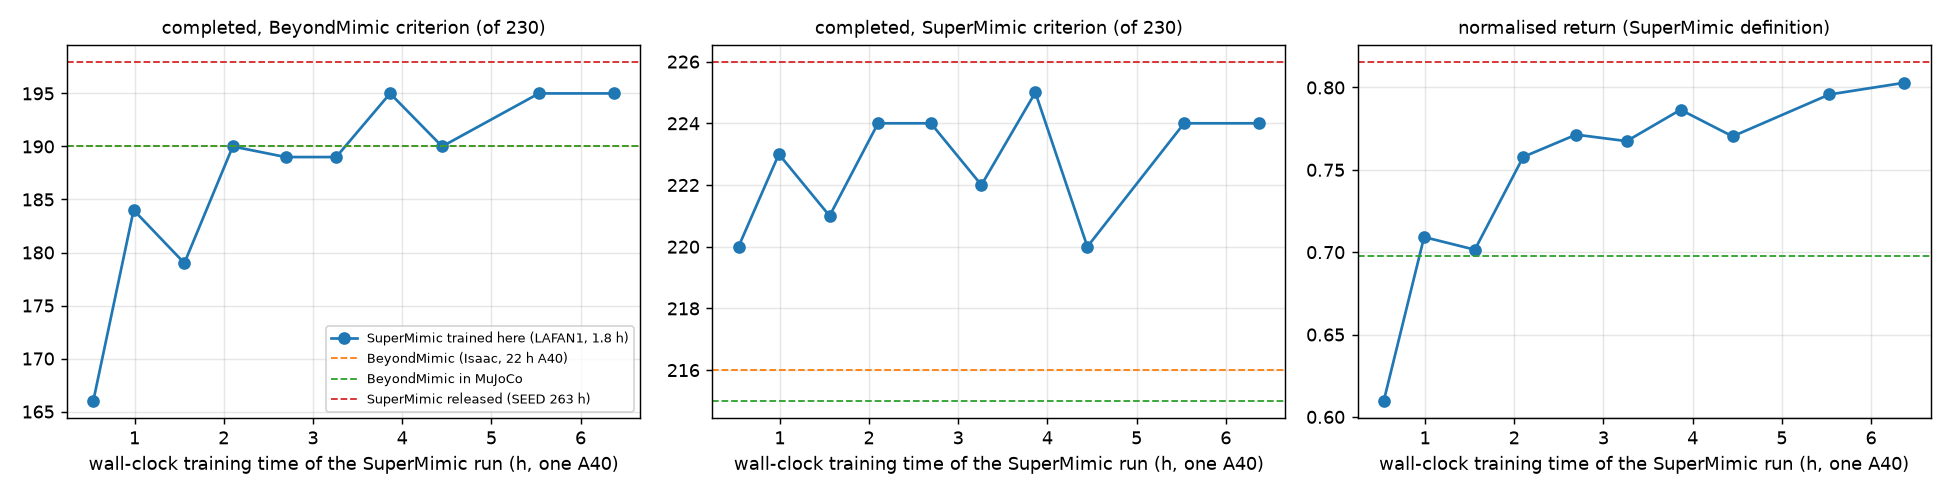
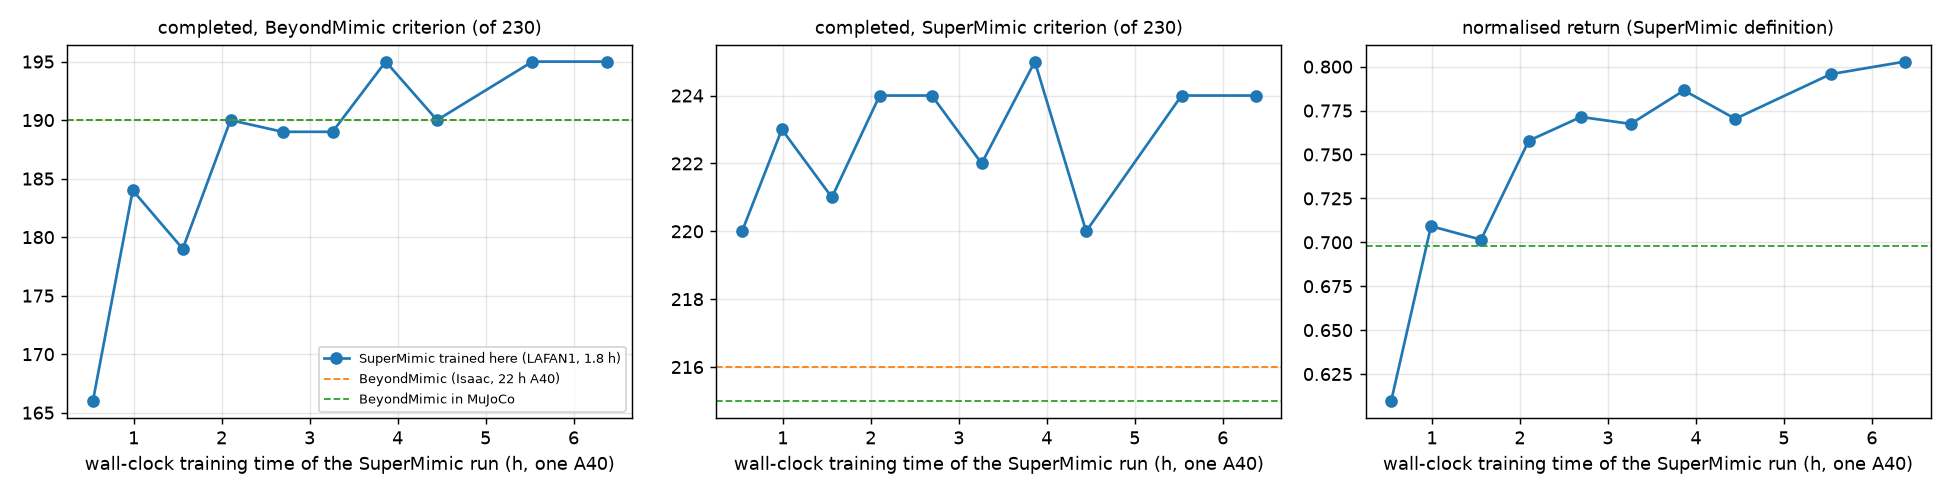
docs: compare BeyondMimic with single-robot SuperMimic; MorphMimic unified_v2 as a reference
The SuperMimic backend is MorphMimic's unofficial reimplementation run in
single-robot mode (no morphology input, FiLM, latent alignment or five-point
interface). MorphMimic's released unified_v2 policy is a cross-embodiment
model trained on three robots, so it leaves the README comparison and the
demo and is kept as a zero-shot reference in docs/supermimic.md, with its
numbers and a relabeled three-column video.

README: three-row table (errors on the 183 clips all three complete),
learning curve without the unified_v2 line, two-column comparison and the
squat video with the SuperMimic policy trained here, and a note that the
BeyondMimic policy cannot see its heading error while the SuperMimic goal
carries the reference orientation relative to the robot.

diff --git a/README.md b/README.md
@@ -1,6 +1,6 @@
 # Humanoid-Motion
 
-An end-to-end pipeline that turns human motion, from motion capture or a single video, into physically tracked motion on the Unitree G1 humanoid: retarget it to the robot with GMR and audit every clip, track it with one of two physics backends (a multi-motion PPO policy in the BeyondMimic environment in Isaac Lab, or SuperMimic's world-model policy through the open MorphMimic implementation in MuJoCo Warp), then score both with one evaluation protocol and replay the recorded physics.
+An end-to-end pipeline that turns human motion, from motion capture or a single video, into physically tracked motion on the Unitree G1 humanoid: retarget it to the robot with GMR and audit every clip, track it with one of two physics backends (a multi-motion PPO policy in the BeyondMimic environment in Isaac Lab, or a SuperMimic world-model policy trained with MorphMimic's unofficial reimplementation in MuJoCo Warp), then score both with one evaluation protocol and replay the recorded physics.
 
 ![One policy tracking six held-out LAFAN1 test clips on the Unitree G1: dance, run, fight and sports, fight, ground moves, fall and get up.](docs/media/teaser.webp)
 
@@ -8,34 +8,35 @@ An end-to-end pipeline that turns human motion, from motion capture or a single 
 
 ## Two tracking backends, one scorer (v0.3)
 
+The second backend follows SuperMimic (Liao et al., CoRL 2026), which learns a differentiable world model and trains the policy through it instead of with PPO. Its authors have not released code; this repository trains it with the open, unofficial reimplementation in MorphMimic's codebase, in single-robot mode, where MorphMimic's cross-embodiment additions are switched off (see [docs/supermimic.md](docs/supermimic.md)).
+
 Both backends are scored by the same offline function on the same 230 held-out LAFAN1 test clips, from recorded states: one attempt per clip from its first frame, no resets, no assistance. "BeyondMimic criterion" fails an attempt at the first frame where the torso height or any ankle or wrist height is more than 25 cm off the reference, or the torso tilt passes BeyondMimic's threshold; the SuperMimic paper's criterion uses the torso terms only. The scorer reproduces the online Isaac evaluator exactly (190 / 230, the same first failure frame on every clip).
 
-| Policy | Training data and compute | Simulator | Completed, BeyondMimic criterion | Completed, SuperMimic criterion |
+| Policy | Training | Simulator | Completed, BeyondMimic criterion | Completed, SuperMimic criterion |
 |---|---|---|---:|---:|
-| BeyondMimic (this repository, v0.1 release) | LAFAN1 train split (1.8 h of motion); 22 h on one A40 | Isaac Lab (its training simulator) | 190 | 216 |
+| BeyondMimic (this repository, v0.1 release) | LAFAN1 train split (1,062 clips, 1.8 h of motion); 22 h on one A40 | Isaac Lab (its training simulator) | 190 | 216 |
 | BeyondMimic, same policy | as above | MuJoCo (sim-to-sim) | 190 | 215 |
-| SuperMimic, trained here | LAFAN1 train split (the same clips); 6.4 h on one A40 | MuJoCo | **195** | **224** |
-| SuperMimic, MorphMimic's released `unified_v2` policy (iteration 76,000, from its [live demo](https://lzyang2000.github.io/morphmimic/demo/)), zero-shot | One policy for G1, X2 and T2; MorphMimic's unified recipe trains on all of BONES-SEED (about 263 h), the exact settings of this checkpoint are not published | MuJoCo | 198 | 226 |
+| SuperMimic (unofficial reimplementation), trained here | the same 1,062 clips; 6.4 h on one A40 | MuJoCo | **195** | **224** |
 
-On the 181 clips all four completed, the mean aligned body position error is 4.7 / 4.8 / 3.4 / 3.2 cm and the mean world root position error 38.5 / 41.3 / 23.0 / 21.6 cm (rows 1 to 4). In MuJoCo, the mean normalised return over all 230 clips (the SuperMimic paper's benchmark definition: reward up to the torso-criterion failure, divided by the best possible return) is 0.698 / 0.803 / 0.816 (rows 2 to 4).
+On the 183 clips all three completed, the mean aligned body position error is 4.7 / 4.8 / 3.4 cm and the mean world root position error 38.7 / 41.4 / 23.3 cm (rows 1 to 3). In MuJoCo, the mean normalised return over all 230 clips (the SuperMimic paper's benchmark definition: reward up to the torso-criterion failure, divided by the best possible return) is 0.698 for the BeyondMimic policy and 0.803 for the SuperMimic policy.
 
-![Test-set learning curve of the SuperMimic policy trained here: completions and normalised return against wall-clock training time, with the BeyondMimic policy and the released SuperMimic policy as reference lines.](docs/media/supermimic_learning_curve.png)
+![Test-set learning curve of the SuperMimic policy trained here: completions and normalised return against wall-clock training time, with the BeyondMimic policy as reference lines.](docs/media/supermimic_learning_curve.png)
 
-*Every 2,000th to 4,000th checkpoint of the SuperMimic run on the 230 test clips, against wall-clock time on one A40 (including compilation). Dashed: the BeyondMimic policy (22 h of training) and the released SuperMimic policy. A scheduler preemption stopped the run after 6.7 h; its last checkpoint (iteration 24,000, at 6.4 h) is the one reported, with no selection on the test set.*
+*Every 2,000th to 4,000th checkpoint of the SuperMimic run on the 230 test clips, against wall-clock time on one A40 (including compilation). Dashed: the BeyondMimic policy after 22 h of training, in Isaac Lab and in MuJoCo. A scheduler preemption stopped the run after 6.7 h; its last checkpoint (iteration 24,000, at 6.4 h) is the one reported, with no selection on the test set.*
 
 What the numbers say, and what they do not:
 
-- **Same data.** Rows 1 to 3 train on the same 1,062 LAFAN1 clips (the SuperMimic motion library is built from the same 50 Hz frames and checked against the same URDF kinematics). The SuperMimic policy reaches the BeyondMimic policy's 190 completions after about 2 h and ends 5 clips ahead, with lower pose and drift errors, after under a third of the training time.
-- **Same engine.** The BeyondMimic policy also runs in the MuJoCo scene the SuperMimic policies are evaluated in (same PD gains, torque limits, action scale and control timing as the Isaac G1, observation rebuilt from the MuJoCo state). It completes 190 clips there, as in Isaac, with the same verdict on 226 of 230 clips, so rows 2 to 4 compare the policies in one engine. Every attempt in both simulators starts from the reference's first frame.
-- **Not the algorithms alone.** The two training setups also differ in simulator (Isaac Lab against MuJoCo Warp), in what the policy sees (MorphMimic's goal includes the reference torso orientation relative to the robot's; the BeyondMimic observation here does not) and in randomisation (MorphMimic's defaults randomise the actuator delay between 0 and 40 ms). Each row is one training run and one evaluation.
-- **Actuator delay.** With a 20 ms delay added in evaluation, the BeyondMimic policy drops from 190 to 161 completions, the SuperMimic policy trained here from 195 to 193, and the released one stays at 198. The run here trained with MorphMimic's default random delay of 0 to 40 ms and the BeyondMimic policy without any, the likely reason for the gap; the released policy's training settings are not published, and no control run isolates the effect.
-- **Drift.** All policies are blind to their world position by design. On the test clips the BeyondMimic policy's root drift is 1.7 to 1.9 times that of the SuperMimic policies; on the longer video clips below, the policy trained here drifts the most.
-- **Where they fail.** Almost every failure is an ankle or wrist more than 25 cm off its reference height. Both SuperMimic policies complete more falls and get-ups (7 against 3 of 11) and runs (22 against 19 in Isaac and 20 in MuJoCo, of 22), and slightly fewer jumps (6 against 7 of 17).
+- **Same data.** Both policies train on the same 1,062 LAFAN1 clips (the SuperMimic motion library is built from the same 50 Hz frames and checked against the same URDF kinematics). The SuperMimic policy reaches the BeyondMimic policy's 190 completions after about 2 h and ends 5 clips ahead, with lower pose and drift errors, after under a third of the training time.
+- **Same engine.** The BeyondMimic policy also runs in the MuJoCo scene the SuperMimic policy is evaluated in (same PD gains, torque limits, action scale and control timing as the Isaac G1, observation rebuilt from the MuJoCo state). It completes 190 clips there, as in Isaac, with the same verdict on 226 of 230 clips, so rows 2 and 3 compare the policies in one engine. Every attempt in both simulators starts from the reference's first frame.
+- **Not the algorithms alone.** The two training setups also differ in simulator (Isaac Lab against MuJoCo Warp), in what the policy sees (the SuperMimic goal includes the reference torso orientation relative to the robot's, read from the IMU; the BeyondMimic observation here does not, so its policy cannot see its heading error) and in randomisation (MorphMimic's defaults randomise the actuator delay between 0 and 40 ms). Neither policy sees its position offset from the reference. Each row is one training run and one evaluation.
+- **Actuator delay.** With a 20 ms delay added in evaluation, the BeyondMimic policy drops from 190 to 161 completions and the SuperMimic policy from 195 to 193. The SuperMimic run trained with a random delay and the BeyondMimic policy without one, the likely reason for the gap; no control run isolates it.
+- **Drift.** Both policies are blind to their world position by design. On the test clips the BeyondMimic policy's root drift is 1.7 to 1.8 times that of the SuperMimic policy; on the longer video clips below it is the other way round.
+- **Where they fail.** Almost every failure is an ankle or wrist more than 25 cm off its reference height. The SuperMimic policy completes more falls and get-ups (7 against 3 of 11) and runs (22 against 19 in Isaac and 20 in MuJoCo, of 22), and slightly fewer jumps (6 against 7 of 17).
 - **Paper settings.** A first SuperMimic run with every switch the paper gives a value for set to that value diverged near iteration 3,000 (critic loss up a hundredfold in 400 iterations, value estimate past the largest possible return); the reported run uses MorphMimic's own defaults, see [docs/supermimic.md](docs/supermimic.md).
 
-![BeyondMimic (Isaac Lab), SuperMimic trained here and the released SuperMimic policy (MuJoCo) tracking the same held-out clips: dance, fight, fall and get up.](docs/media/compare3.webp)
+![The BeyondMimic policy (Isaac Lab) and the SuperMimic policy trained here (MuJoCo) tracking the same held-out clips: dance, fight, fall and get up.](docs/media/compare.webp)
 
-*The same held-out clips tracked by the BeyondMimic policy (left, recorded in Isaac Lab), the SuperMimic policy trained here on the same data (middle) and MorphMimic's released SuperMimic policy (right), both recorded in MuJoCo; all complete all three.*
+*The same held-out clips tracked by the BeyondMimic policy (left, recorded in Isaac Lab) and the SuperMimic policy trained on the same data (right, recorded in MuJoCo); both complete all three.*
 
 ## From a single video (v0.3)
 
@@ -43,9 +44,9 @@ A monocular video goes through [GVHMR](https://github.com/zju3dv/GVHMR) (world-g
 
 ![A squat video from Pexels, the retargeted G1 reference, and the BeyondMimic and SuperMimic policies tracking it zero-shot.](docs/media/video_squat.webp)
 
-*Source video | retargeted G1 reference | BeyondMimic policy (Isaac Lab) | released SuperMimic policy (MuJoCo), first 12 s, both zero-shot. Video: Pexels (free licence).*
+*Source video | retargeted G1 reference | BeyondMimic policy (Isaac Lab) | SuperMimic policy trained here (MuJoCo), first 12 s, both zero-shot. Video: Pexels (free licence).*
 
-On three test videos (a squat from Pexels and two CMU Panoptic walking and gesturing windows), the BeyondMimic policy (in Isaac and in MuJoCo) and the SuperMimic policy trained here each complete two; the released SuperMimic policy completes the squat under the BeyondMimic criterion and all three under its own torso-only criterion. On these 20 to 30 s clips, three to five times longer than the 6 s training windows, the mean root drift of the completed attempts is 35 to 47 cm for the BeyondMimic policy, 73 to 93 cm for the SuperMimic policy trained here and 13 cm for the released one. The third video fails in retargeting, not tracking: GMR's inverse kinematics settles into a local minimum on the first frame and keeps one arm behind the back for the whole clip, and the stage audit (`humanoid_motion.video.stage_audit`) flags it at the retargeting stage. See [docs/video.md](docs/video.md).
+On three test videos (a squat from Pexels and two CMU Panoptic walking and gesturing windows), the BeyondMimic policy (in Isaac and in MuJoCo) and the SuperMimic policy each complete two, and both fail the third. On these 20 to 30 s clips, three to five times longer than the 6 s training windows, the mean root drift of the completed attempts is 35 to 47 cm for the BeyondMimic policy and 73 to 93 cm for the SuperMimic policy. The third video fails in retargeting, not tracking: GMR's inverse kinematics settles into a local minimum on the first frame and keeps one arm behind the back for the whole clip, and the stage audit (`humanoid_motion.video.stage_audit`) flags it at the retargeting stage. See [docs/video.md](docs/video.md).
 
 ## BeyondMimic backend results (v0.1)
 
@@ -242,7 +243,7 @@ The two stages exchange only reference motion files, so either backend can be re
 
 - Simulation only: Isaac Lab and MuJoCo (sim-to-sim for the BeyondMimic policy); no hardware deployment.
 - One attempt per test clip from a nominal start; the only robustness test is a fixed 20 ms actuator delay.
-- The two backends are compared with one scorer, but the released SuperMimic policy was trained on far more data and compute; only the SuperMimic policy trained here holds the training data fixed.
+- The SuperMimic backend is an unofficial reimplementation; its results say how this implementation performs on this data, not how the authors' code would.
 - Every policy is weakest on jumps and chained actions (the BeyondMimic policy also on falls and get-ups), and every policy drifts in the world frame.
 - Video references are only as good as the monocular reconstruction and the retargeting: three test videos, one of which fails in retargeting.
 - Flat ground, Unitree G1 only.

diff --git a/docs/supermimic.md b/docs/supermimic.md
@@ -1,6 +1,6 @@
 # SuperMimic tracking backend
 
-[SuperMimic](https://arxiv.org/abs/2610.28480) (Liao et al., CoRL 2026) trains a motion-tracking policy by backpropagating through a learned, differentiable world model instead of using PPO. Its authors have not released code. This repository uses the open, independent implementation in [MorphMimic](https://github.com/lzyang2000/morphmimic) (Yang et al., 2026; Apache-2.0), pinned at commit `8cd92b6`, in its single-robot G1 mode, with its code unmodified. MorphMimic runs on [mjlab](https://github.com/mujocolab/mjlab) (MuJoCo Warp).
+[SuperMimic](https://arxiv.org/abs/2610.28480) (Liao et al., CoRL 2026) trains a motion-tracking policy by backpropagating through a learned, differentiable world model instead of using PPO. Its authors have not released code. This repository uses the open, unofficial reimplementation in [MorphMimic](https://github.com/lzyang2000/morphmimic) (Yang et al., 2026; Apache-2.0), pinned at commit `8cd92b6`, with its code unmodified. MorphMimic's README states that its SuperMimic base was written from the paper alone and is not reviewed or endorsed by the SuperMimic authors. On top of it MorphMimic adds cross-embodiment training (a morphology input, decoder FiLM, latent alignment, shared modules across robots) and a five-point teleoperation interface. This repository trains in single-robot mode (`--robot g1`, no `--robots`), where `Trainer._resolve_cfg` leaves the morphology input off, turns FiLM off and sets the latent-alignment weight to zero, and without `--kp-interface`; the G1 is MorphMimic's canonical 29-joint layout, so its joint map is the identity. What remains is MorphMimic's reading of the SuperMimic paper, with the switches below. MorphMimic runs on [mjlab](https://github.com/mujocolab/mjlab) (MuJoCo Warp).
 
 What this repository adds around it (`src/humanoid_motion/tracking/supermimic/`):
 
@@ -40,4 +40,20 @@ The training log's `nret` is not a performance measure here: it divides each fin
 
 Both backends are scored by `humanoid_motion.evaluation.score_attempt` on the 230 LAFAN1 test clips: one nominal attempt per clip from its first frame, failure at the first frame where a BeyondMimic termination fires (torso height or any ankle or wrist height more than 25 cm off, or torso tilt past the threshold). The SuperMimic paper's own failure definition (torso height and tilt only) is reported alongside. Every attempt starts from the reference's first frame in both simulators (MorphMimic's own eval reset clips the start pose's joint angles to the soft limits; `scripts/evaluate_mujoco.py --start morphmimic` keeps that start instead). The offline scorer reproduces the online Isaac evaluator exactly (190 / 230 for the released BeyondMimic policy, the same first failure frame on all 230 clips).
 
-The BeyondMimic policy is native to Isaac Lab (PhysX) and the SuperMimic policies to MuJoCo. To compare them in one engine, `scripts/evaluate_mujoco.py --policy beyondmimic` also runs the BeyondMimic policy in the same MuJoCo scene: its PD gains, torque limits, action scale, default pose and 5 ms x 4 control timing match the Isaac G1 to 1e-6, and its observation is rebuilt from the MuJoCo state exactly as the Isaac terms compute it.
+The BeyondMimic policy is native to Isaac Lab (PhysX) and the SuperMimic policy to MuJoCo. To compare them in one engine, `scripts/evaluate_mujoco.py --policy beyondmimic` also runs the BeyondMimic policy in the same MuJoCo scene: its PD gains, torque limits, action scale, default pose and 5 ms x 4 control timing match the Isaac G1 to 1e-6, and its observation is rebuilt from the MuJoCo state exactly as the Isaac terms compute it.
+
+## Reference: MorphMimic's cross-embodiment policy
+
+MorphMimic publishes one trained policy, `unified_v2` at iteration 76,000, as the `policy.onnx` of its [live demo](https://lzyang2000.github.io/morphmimic/demo/) (SHA256 `081af621...`). It is a MorphMimic model, not a SuperMimic one: one policy for the Unitree G1, AgiBot X2 Ultra and Booster T2, trained in multi-robot mode. Its training settings are not published; MorphMimic's README trains its unified model on all of BONES-SEED (about 263 h) for 40,000 iterations. It is not part of the main comparison, because this repository needs no cross-embodiment and the policy shares neither training data nor method with the other two. The same harness evaluates it zero-shot, from the same exported-policy interface (`scripts/evaluate_mujoco.py --policy supermimic --deploy <export dir>`):
+
+| Policy | Completed, BeyondMimic criterion | Completed, SuperMimic criterion | Normalised return | With 20 ms actuator delay |
+|---|---:|---:|---:|---:|
+| BeyondMimic, MuJoCo | 190 | 215 | 0.698 | 161 |
+| SuperMimic trained here | 195 | 224 | 0.803 | 193 |
+| MorphMimic `unified_v2`, zero-shot | 198 | 226 | 0.816 | 198 |
+
+On the 181 test clips all four rows of the earlier comparison completed (BeyondMimic in Isaac and in MuJoCo, SuperMimic trained here, `unified_v2`), the mean aligned body position error is 4.7 / 4.8 / 3.4 / 3.2 cm and the mean world root position error 38.5 / 41.3 / 23.0 / 21.6 cm. On the three test videos it completes the squat under the BeyondMimic criterion (13 cm root drift) and all three under the torso-only criterion.
+
+![The BeyondMimic policy, the SuperMimic policy trained here and MorphMimic's cross-embodiment unified_v2 policy tracking the same held-out clips.](media/compare_morphmimic.webp)
+
+*Left to right: BeyondMimic (Isaac Lab), SuperMimic trained here and MorphMimic `unified_v2` (both MuJoCo); all three complete all three clips.*

diff --git a/CHANGELOG.md b/CHANGELOG.md
@@ -5,11 +5,11 @@
 A video front end, a second tracking backend, and one evaluation protocol for both. The v0.1 policy is unchanged.
 
 - Video front end: monocular video -> GVHMR -> SMPL-X -> GMR -> G1 reference in the same contract as LAFAN1 clips (`scripts/video_to_reference.py`, `humanoid_motion.video`, `scripts/setup_gvhmr.sh`, `docs/video.md`). The ground comes from GVHMR's own stationary-foot labels, frame by frame; a quality gate and a stage-by-stage audit (reconstruction, interface, retargeting, ground, tracking) say which stage a bad clip fails in. LAFAN1 retargeting output is byte-identical to v0.2.
-- SuperMimic backend through the open MorphMimic implementation, unmodified (`humanoid_motion.tracking.supermimic`, `scripts/setup_supermimic.sh`, `docs/supermimic.md`): motion-library conversion from the same 50 Hz frames as the Isaac library with a URDF FK check, training with MorphMimic's flags, an exporter adapter for motion-only checkpoints, and SuperMimic's normalised return.
+- SuperMimic backend through MorphMimic's unofficial reimplementation in single-robot mode, unmodified (`humanoid_motion.tracking.supermimic`, `scripts/setup_supermimic.sh`, `docs/supermimic.md`): motion-library conversion from the same 50 Hz frames as the Isaac library with a URDF FK check, training with MorphMimic's flags, an exporter adapter for motion-only checkpoints, and SuperMimic's normalised return.
 - One offline scorer for every backend (`humanoid_motion.evaluation.score_attempt`, `scripts/score_rollouts.py`), with the BeyondMimic and the SuperMimic failure criteria. It reproduces the online Isaac evaluator exactly: 190 / 230, the same first failure frame on every clip.
 - MuJoCo evaluation for both backends (`scripts/evaluate_mujoco.py`, `humanoid_motion.tracking.sim2sim`). The v0.1 BeyondMimic policy runs in MuJoCo too: 190 / 230 there, as in Isaac Lab, with the same verdict on 226 clips; every attempt in both simulators starts from the reference's first frame.
 - `scripts/render_video.py`: `compare` (one column per policy) and `video` (source video, retargeted reference, policies) layouts.
-- Results on the 230 LAFAN1 test clips, one scorer: a SuperMimic policy trained here on the same LAFAN1 train split (MorphMimic's defaults, last checkpoint after 6.4 h on one A40) completes 195 against 190 for the v0.1 BeyondMimic policy (22 h), 224 against 216 under SuperMimic's torso-only criterion, with lower pose and drift errors; MorphMimic's released policy, trained on BONES-SEED and zero-shot on LAFAN1, completes 198. With 20 ms of actuator delay the BeyondMimic policy drops to 161, the SuperMimic policies to 193 and 198. A first SuperMimic run with the paper's switch values diverged near iteration 3,000.
+- Results on the 230 LAFAN1 test clips, one scorer: a SuperMimic policy trained here on the same LAFAN1 train split (MorphMimic's defaults, last checkpoint after 6.4 h on one A40) completes 195 against 190 for the v0.1 BeyondMimic policy (22 h), 224 against 216 under SuperMimic's torso-only criterion, with lower pose and drift errors. With 20 ms of actuator delay the BeyondMimic policy drops to 161 and the SuperMimic policy to 193. MorphMimic's cross-embodiment `unified_v2` policy is evaluated zero-shot as a reference in `docs/supermimic.md` (198), not in the main comparison. A first SuperMimic run with the paper's switch values diverged near iteration 3,000.
 - `render_video.py` shadow box widened so that NVIDIA EGL renders no speckles on the far floor; `--delay-ms` in the MuJoCo evaluation.
 
 ## v0.2

diff --git a/THIRD_PARTY.md b/THIRD_PARTY.md
@@ -12,8 +12,8 @@ This repository's own code is MIT-licensed (see `LICENSE`). It depends on, but d
 | LAFAN1 motion capture | [ubisoft/ubisoft-laforge-animation-dataset](https://github.com/ubisoft/ubisoft-laforge-animation-dataset) | CC BY-NC-ND 4.0 | Source motion. Downloaded and checksum-verified by `scripts/setup_cpu.sh`; BVH files and retargeted clips are not redistributed. |
 | GVHMR (optional video front end) | [zju3dv/GVHMR](https://github.com/zju3dv/GVHMR) | Educational, research and non-profit use only; derivatives must be open source; no commercial use (its `LICENSE`) | Runs the official demo from a pinned checkout in its own environment; installed by `scripts/setup_gvhmr.sh`, which downloads its weights and checks them by SHA-256. Not vendored, weights not redistributed. |
 | SMPL-X and SMPL body models; `smplx` package | [MPI for Intelligent Systems](https://smpl-x.is.tue.mpg.de/) | Non-commercial scientific research licences | The user registers and downloads the models; the `smplx` package is an optional extra (`video`), not in the default lock. Not redistributed. |
-| MorphMimic (optional SuperMimic backend) | [lzyang2000/morphmimic](https://github.com/lzyang2000/morphmimic) | Apache-2.0 | Independent open implementation of SuperMimic. Unmodified pinned checkout in `third_party/morphmimic`, with its own locked environment (`scripts/setup_supermimic.sh`); this repository imports its training, export and sim2sim code. |
-| MorphMimic released `unified_v2` policy | MorphMimic live demo, `https://lzyang2000.github.io/morphmimic/demo/live/policy.onnx` | Not stated separately from the code | Evaluated here (zero-shot results and videos); not redistributed. |
+| MorphMimic (optional SuperMimic backend) | [lzyang2000/morphmimic](https://github.com/lzyang2000/morphmimic) | Apache-2.0 | Unofficial reimplementation of SuperMimic (written from the paper, not by its authors) with cross-embodiment extensions, used here in single-robot mode. Unmodified pinned checkout in `third_party/morphmimic`, with its own locked environment (`scripts/setup_supermimic.sh`); this repository imports its training, export and sim2sim code. |
+| MorphMimic released `unified_v2` policy | MorphMimic live demo, `https://lzyang2000.github.io/morphmimic/demo/live/policy.onnx` | Not stated separately from the code | Cross-embodiment model, evaluated here zero-shot as a reference in `docs/supermimic.md`; not redistributed. |
 | mjlab, MuJoCo, MuJoCo Warp, NVIDIA Warp | [mujocolab/mjlab](https://github.com/mujocolab/mjlab), [google-deepmind/mujoco](https://github.com/google-deepmind/mujoco), NVIDIA | Apache-2.0 | Simulator stack of the SuperMimic backend and of the MuJoCo evaluation, through MorphMimic's environment. onnxruntime (MIT) runs exported policies. |
 | Video clips used for the video results | [Pexels](https://www.pexels.com/license/) (squat clip 8837118); [CMU Panoptic Studio](http://domedb.perception.cs.cmu.edu/) (dataset 171204_pose3) | Pexels licence (free use and modification, attribution not required); Panoptic: research use | The Pexels clip appears in the README video. The two Panoptic windows are used for evaluation only; their frames are not redistributed. |
 | Python packages | PyPI, see `requirements/` | Their respective licenses | Exact versions pinned in `requirements/cpu.lock.txt` and `requirements/isaac-linux.lock.txt`; MorphMimic's environment by its `uv.lock`. |
